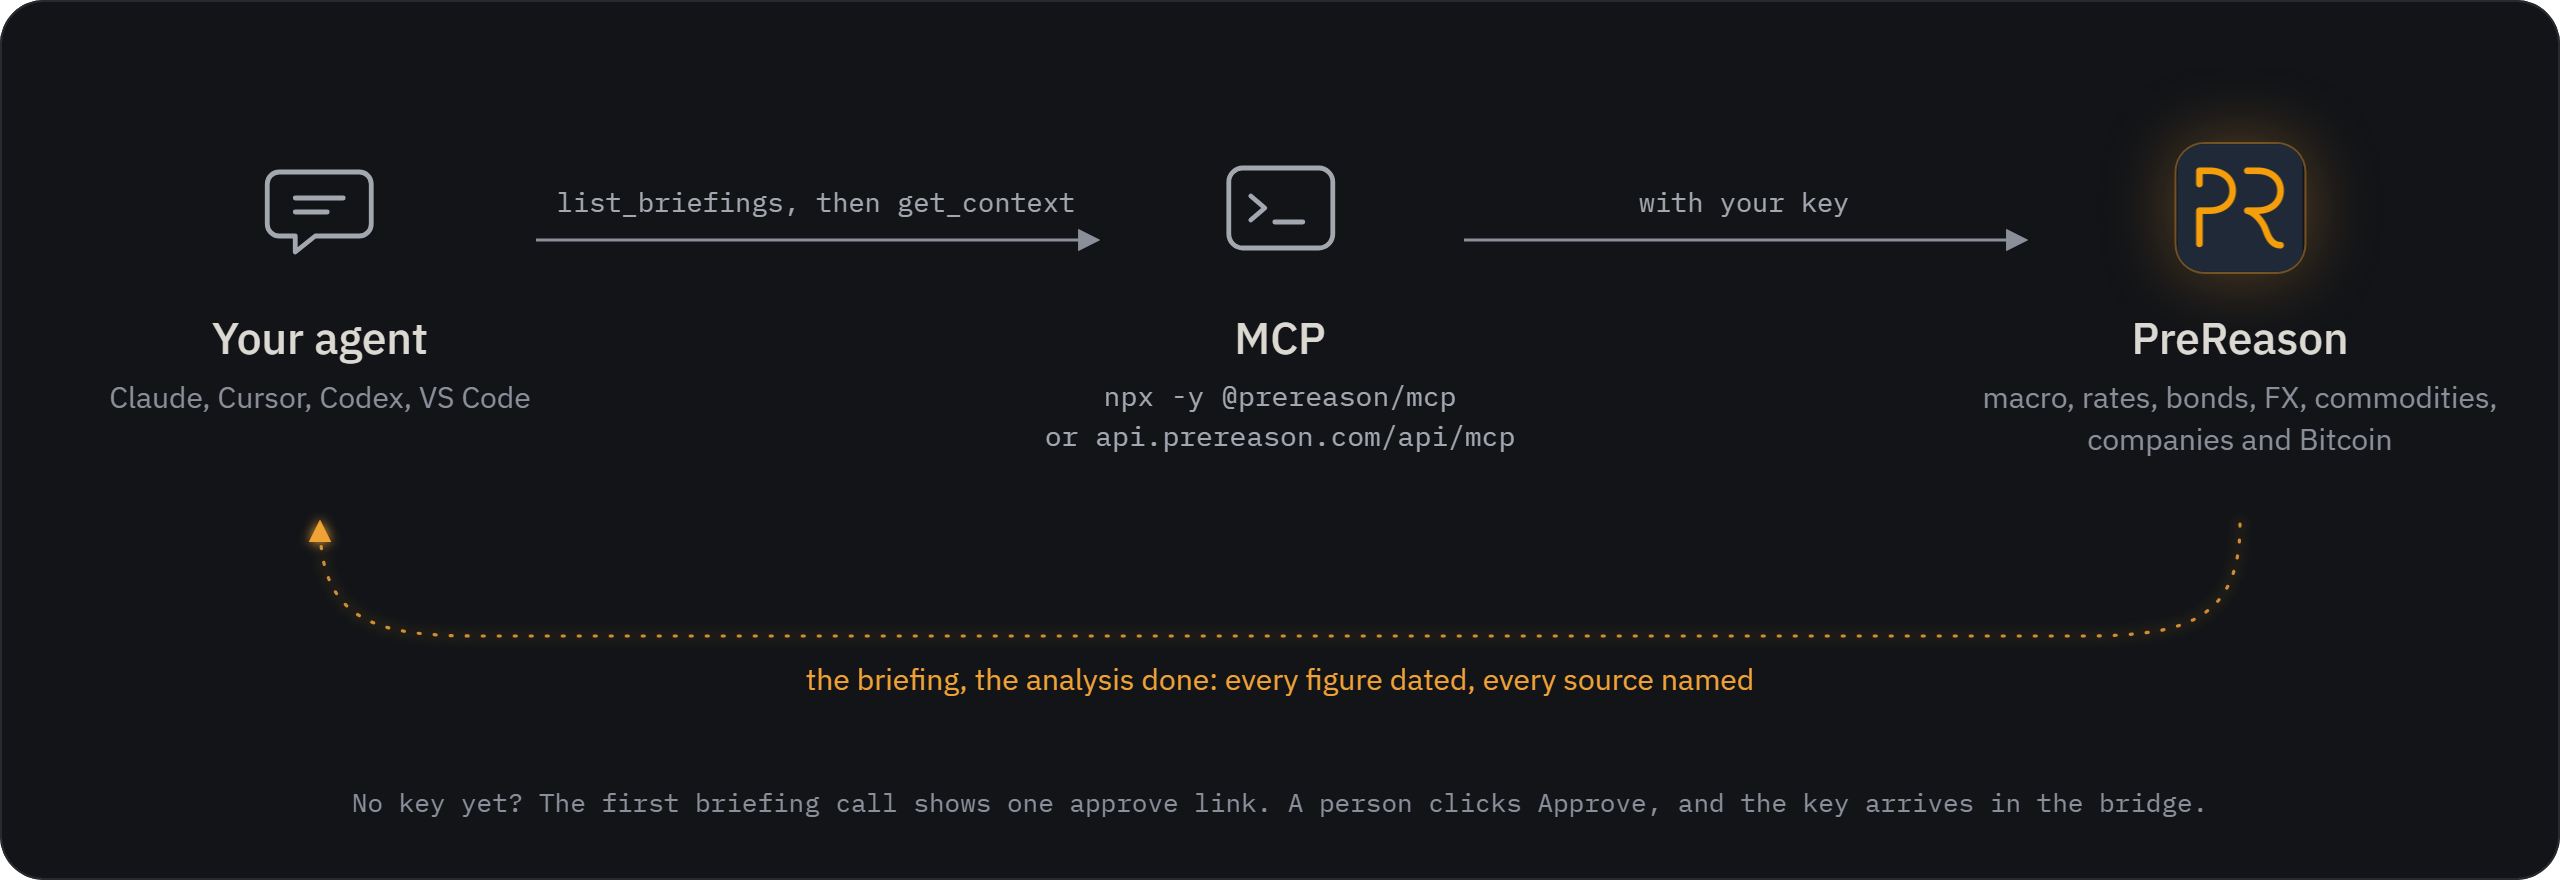
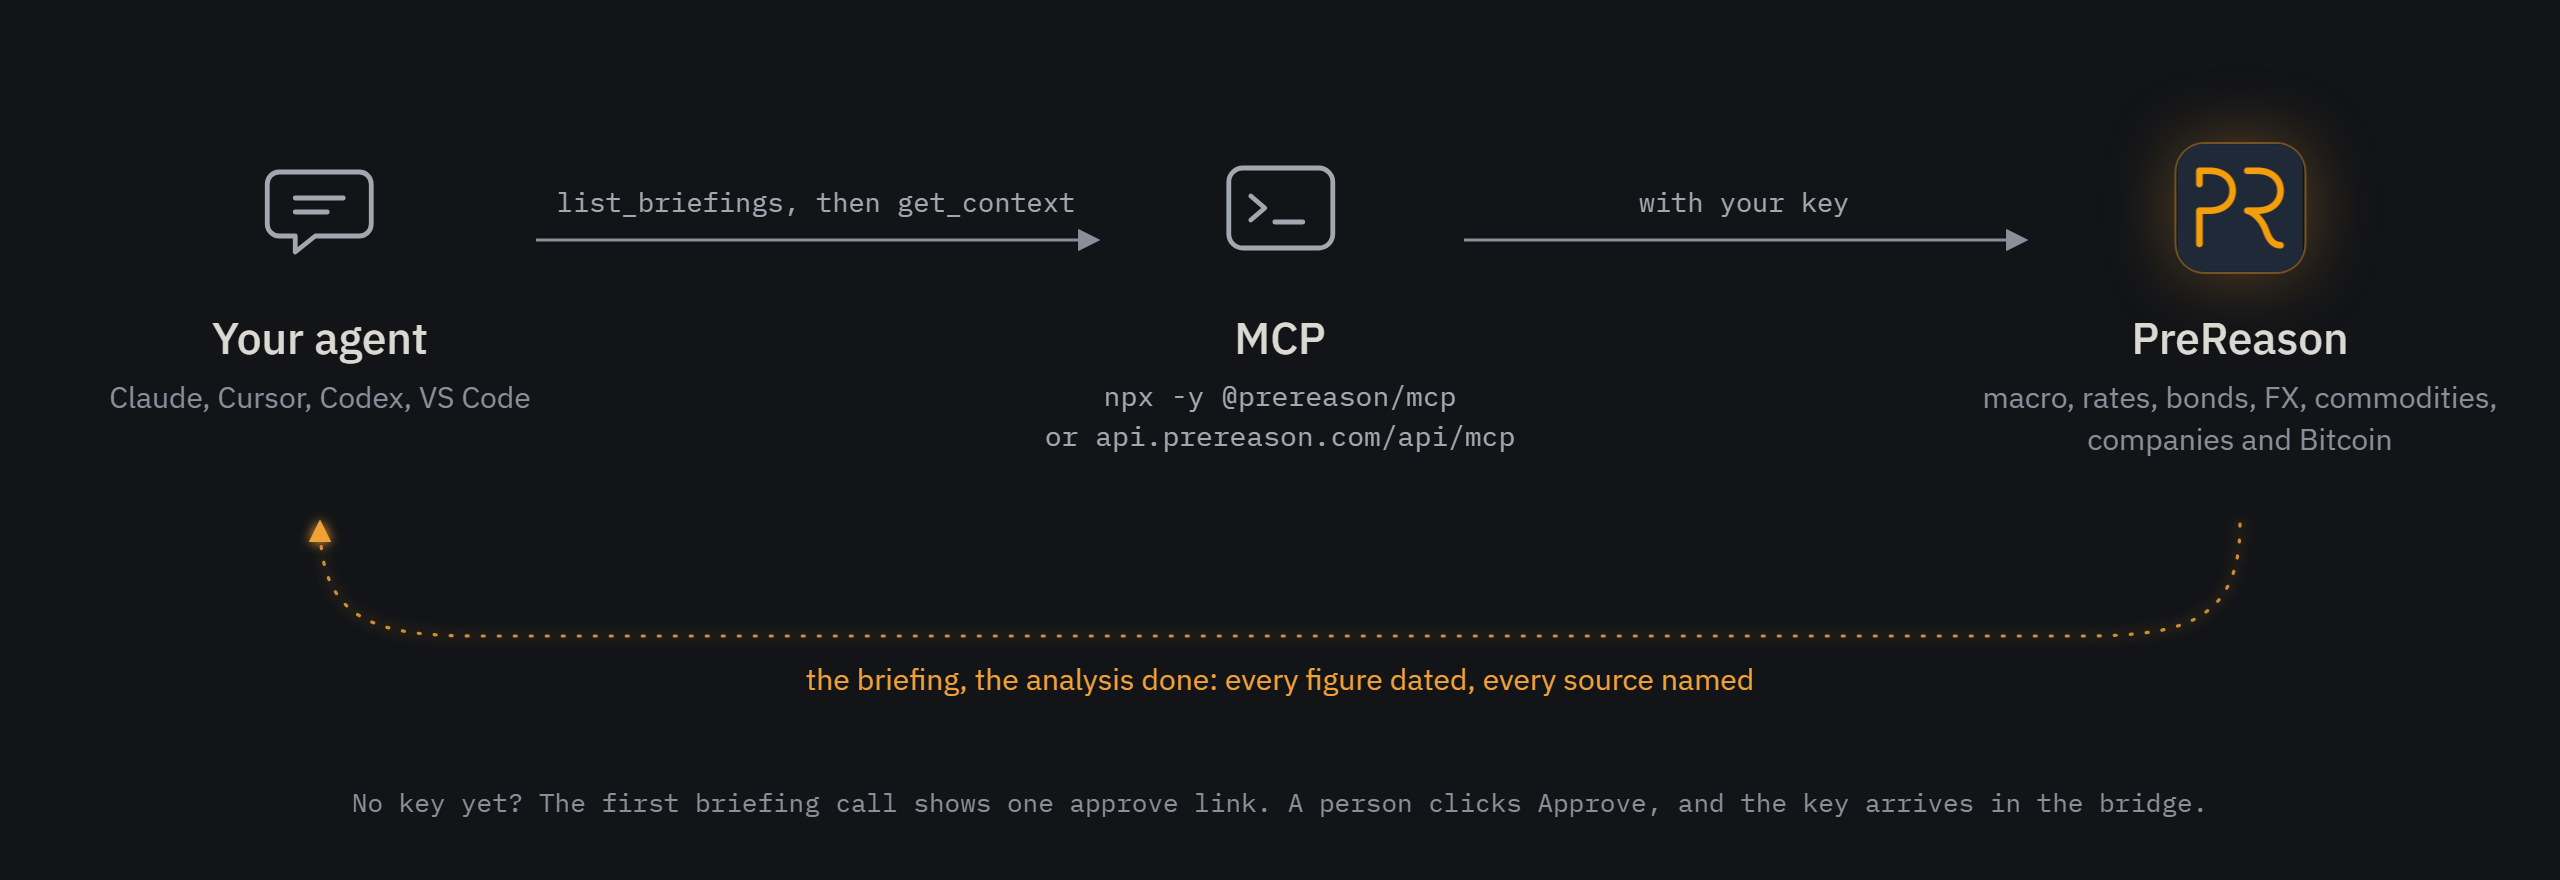
0.5.6: the README opens with what an agent gets ("Let your agent prereason before it answers."), and its pictures have square, opaque edges

Changed region(s): [[0.0, 0.9818, 1.0, 1.0], [0.9688, 0.0, 1.0, 0.0307], [0.0, 0.0, 0.0312, 0.0307]]

diff --git a/bin/cli.js b/bin/cli.js
@@ -35,7 +35,7 @@ import { failureResponse } from '../lib/jsonrpc.js';
 
 // Keep in sync with package.json on each release
 const PKG_NAME = '@prereason/mcp';
-const PKG_VERSION = '0.5.5';
+const PKG_VERSION = '0.5.6';
 const DEFAULT_URL = 'https://api.prereason.com/api/mcp';
 const USER_AGENT = `prereason-mcp/${PKG_VERSION} node/${process.versions.node} (${platform()})`;
 

diff --git a/README.md b/README.md
@@ -11,11 +11,26 @@
 [![Glama Score](https://glama.ai/mcp/servers/PreReason/mcp/badges/score.svg)](https://glama.ai/mcp/servers/PreReason/mcp)
 [![Smithery](https://img.shields.io/badge/Smithery-listed-7c3aed)](https://smithery.ai/servers/prereason/briefings)
 
-**MCP server for [PreReason](https://www.prereason.com).**
+**Let your agent [prereason](https://www.prereason.com) before it answers.**
 
 Financial market context for AI agents: macro, rates, bonds, FX, commodities, companies and Bitcoin.
 
 </div>
+
+Ask your agent where Treasury yields are. On its own, it reaches for a search result or a raw series and works out the rest by itself. When it prereasons, one `get_context` call brings back the context already worked out: the 30 year yield at 5.67% on 2026-10-07, the highest reading on the US Treasury's daily par yield curve since July 2001.
+
+<img src="https://raw.githubusercontent.com/PreReason/mcp/main/assets/briefing.png" alt="An agent asks where Treasury yields are and what the Fed last decided; get_context with briefing macro.rates answers with the 30 year and 10 year Treasury yields, 10 year breakeven inflation and the Fed funds target range, each with its date and its context, from a served answer of 2026-10-08" width="100%">
+
+## Why prereason?
+
+- **Context, not raw numbers.** Each briefing arrives with the reading done: the trend over several windows, where a value sits in its own history, a company's rank among its peers and, where read, its own guidance.
+- **Every figure dated, every source named.** Your agent can say when a number is from and where it came from.
+- **One call, a whole briefing.** A briefing gathers the series a question needs, so your agent spends its turns on the answer rather than on lookups.
+- **The markets in one place.** Rates and Treasuries, the Fed, FX, commodities, macro, listed companies in the US, Japan, Korea and India, and Bitcoin.
+- **It describes; it never advises.** Briefings say what the data shows. They never say what to buy, sell or hold.
+- **Quick to set up.** One block of config for Claude, Cursor, Codex or VS Code, through the npm bridge or the remote server. The catalogue tools need no key; for the rest, the session gives you one link to approve in your browser, and the key arrives in the running session.
+
+## What it covers
 
 PreReason gives an AI agent market context it can reason with, in place of raw numbers. One call returns a briefing with the analysis already in it: a signal line, trend direction over several windows, confidence scores, percentile ranks and correlations, and in the deeper briefings a regime label and a plain language narrative. The briefings cover macro, bonds, FX, commodities, Bitcoin, Ethereum and cross asset correlations. Company briefings cover listed companies in US, Japan, Korea and India, one company per call. The catalogue holds 32 live briefings and 270 individual metrics, among them Treasury yields, the latest FOMC statement, Treasury auctions, who holds US Treasuries, the Fed balance sheet, M2, net liquidity, the dollar, US crude and gas inventories, gold, silver, copper and wheat, oil, mining and agribusiness companies beside their commodity, AI compute and power demand, Bitcoin price and momentum, Bitcoin network and miner health, spot Bitcoin ETF flows and corporate Bitcoin treasuries. It is served over MCP (a remote server and an npm bridge) and over REST, as Markdown or JSON. The catalogue tools need no key, and an agent can get a free key from inside the session: it shows one link, a person approves it, and the key arrives.
 
@@ -99,8 +114,6 @@ Three ways, all free. The hosted server never hands out a key inside a session a
 | `get_changes` | Required (Basic and above) | What changed since your last call: change events after a cursor, no values |
 
 ## 32 Market Briefings
-
-<img src="https://raw.githubusercontent.com/PreReason/mcp/main/assets/briefing.png" alt="An agent asks where Treasury yields are and what the Fed last decided; get_context with briefing macro.rates answers with the 30 year and 10 year Treasury yields, 10 year breakeven inflation and the Fed funds target range, each with its date and its context, from a served answer of 2026-10-08" width="100%">
 
 ### Free (6 briefings)
 | Briefing | Description |

diff --git a/CHANGELOG.md b/CHANGELOG.md
@@ -1,5 +1,12 @@
 # Changelog
 
+## 0.5.6 (2026-10-08)
+
+### Changed
+- The README opens with what an agent gets: one line ("Let your agent prereason before it answers."), a served Treasuries answer as the example, then "Why prereason?" in six points, before the full description and Quick Start. The served `macro.rates` picture moves up into that opening.
+- The four pictures are opaque to their square edges, with no border line and no rounded corner, so no light edge shows on GitHub's dark page or on a white one.
+- `server.json` registry version 0.8.2, npm package 0.5.6.
+
 ## 0.5.5 (2026-10-08)
 
 ### Changed
